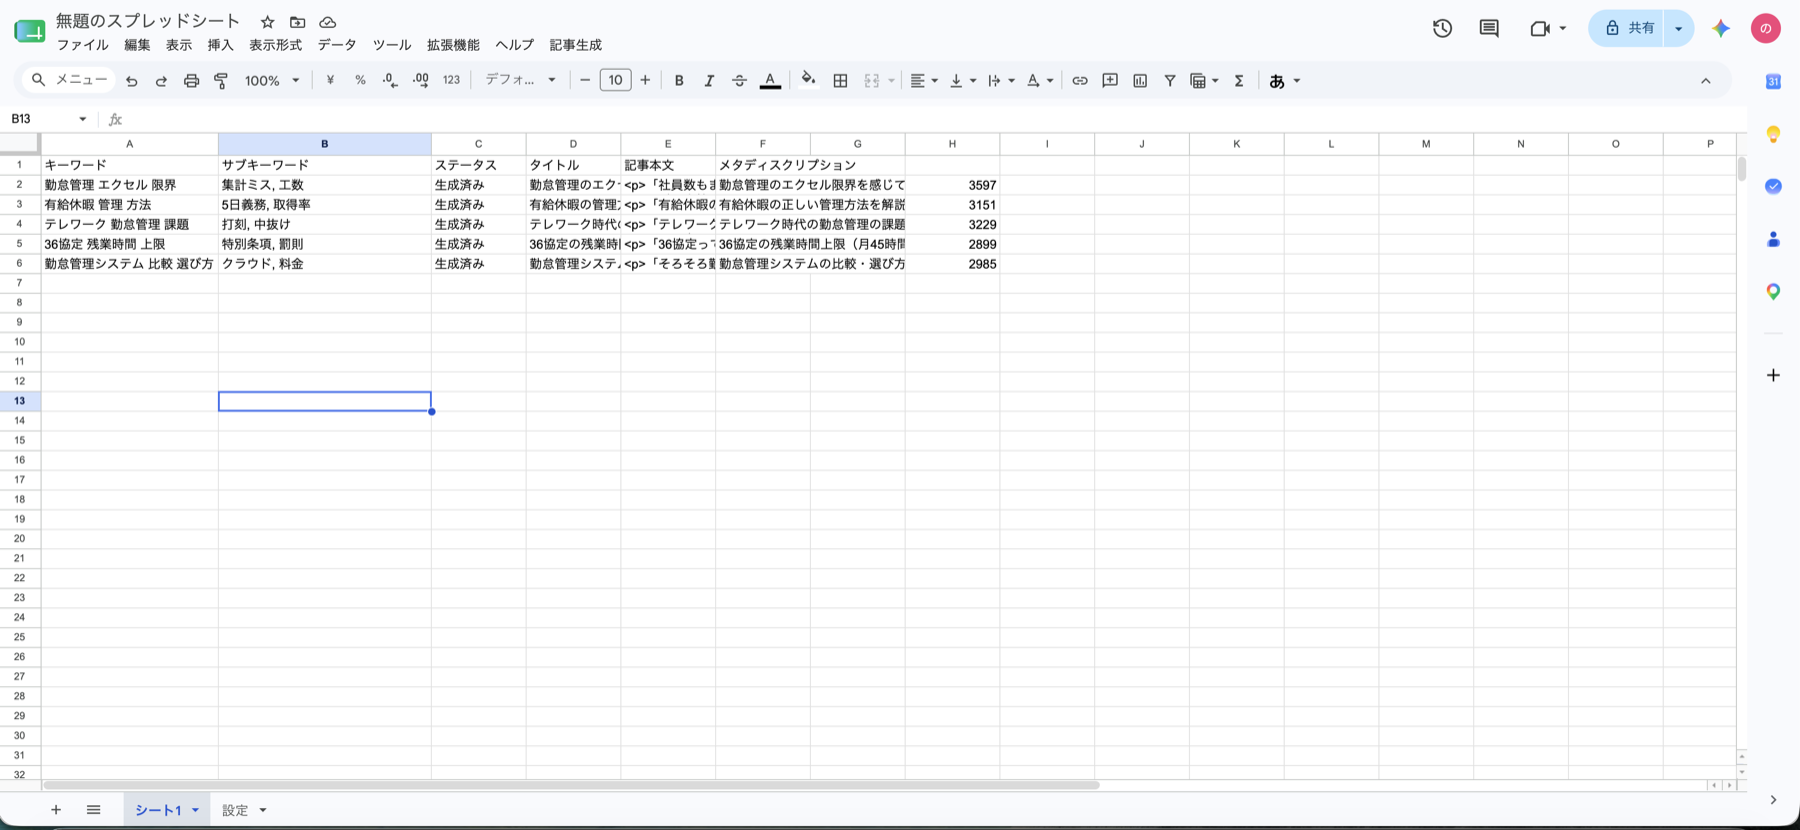
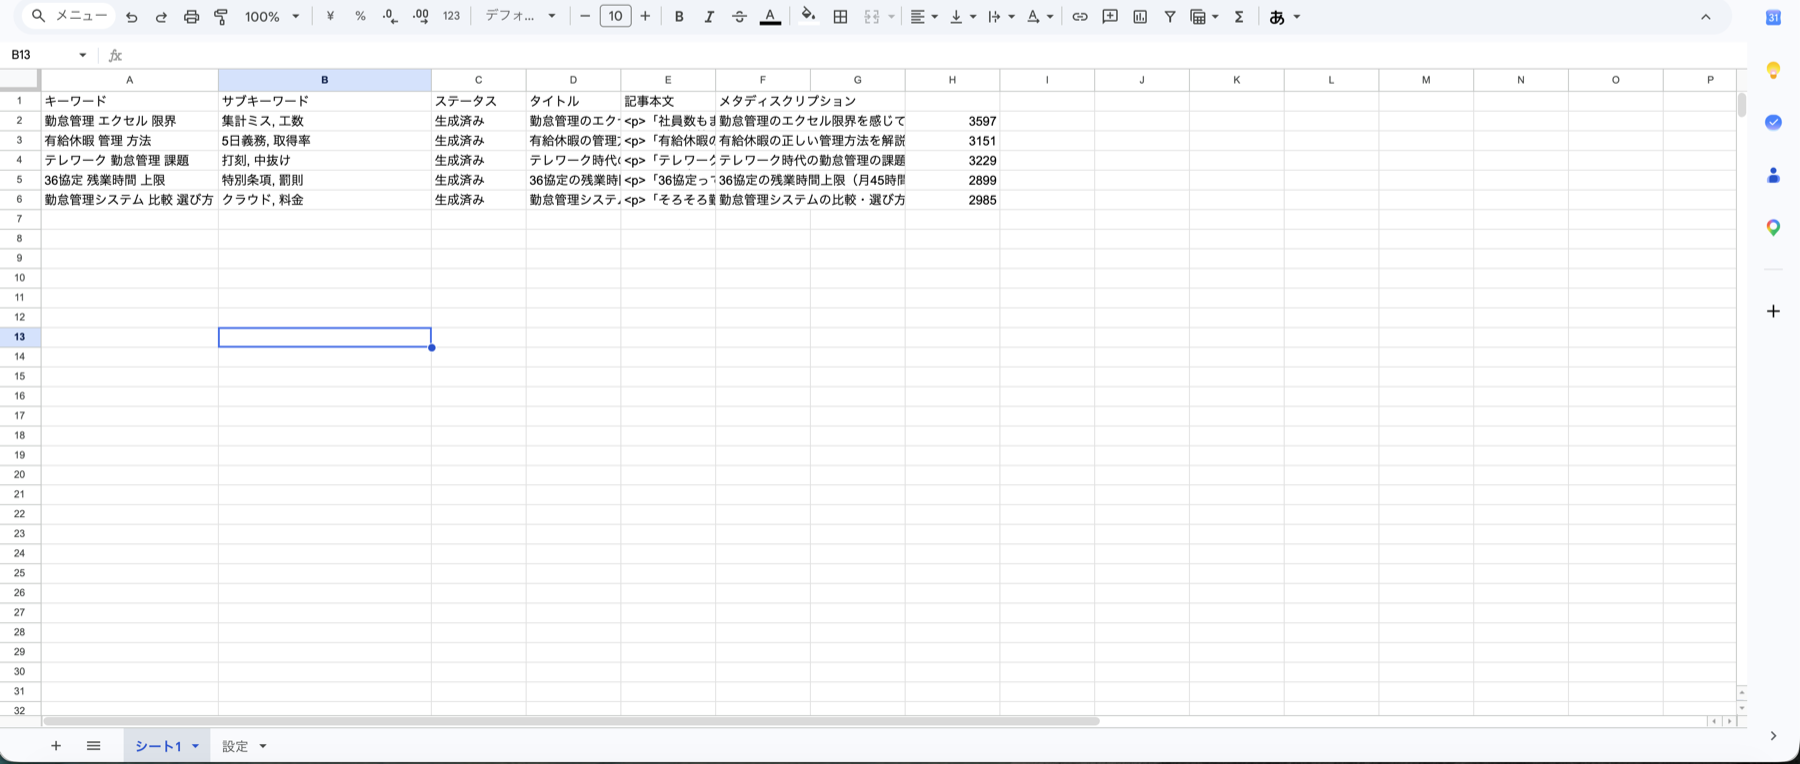
独立レビュー指摘の反映
- [BLOCKER] case6/query-logs.png: ブラウザchromeとSupabaseの組織名・
  プロジェクトref・PRODUCTION表示をクロップ除去（監査ログのテーブル表示のみ残す）
- [should-fix] 代表実績case-7サムネイルのalt文言を実画面（CSVアップロード画面）に合わせて修正
- [nit] case2スクショ3枚: Googleアカウントアバターが写る上部バーをクロップ
- [nit] CaseFlowの分岐アウトカムを最終ステップ配下のネストしたリストに変更（順序リストの意味を明確化）
- 変更した画像の width/height を lib/cases.ts に反映

Claude-Session: https://claude.ai/code/session_011vzqPPkYJLccirdxSkw4u8

diff --git a/app/components/illustrations/CaseFlow.tsx b/app/components/illustrations/CaseFlow.tsx
@@ -7,6 +7,19 @@
  */
 export type FlowStep = { label: string; sub?: string };
 
+function StepBox({ step }: { step: FlowStep }) {
+  return (
+    <div className="rounded-lg border border-[var(--color-border)] bg-[var(--color-bg)] px-3 py-2">
+      <span className="block text-sm font-medium">{step.label}</span>
+      {step.sub && (
+        <span className="block text-xs text-[var(--color-text-sub)] mt-0.5">
+          {step.sub}
+        </span>
+      )}
+    </div>
+  );
+}
+
 export default function CaseFlow({
   steps,
   branches,
@@ -23,44 +36,43 @@ export default function CaseFlow({
     <figure className={className}>
       <div className="rounded-xl border border-[var(--color-border)] bg-[var(--color-bg-card)] p-5 sm:p-6">
         <ol className="flex flex-wrap items-stretch gap-2 sm:gap-3">
-          {steps.map((step, i) => (
-            <li key={step.label} className="flex items-center gap-2 sm:gap-3">
-              <div className="rounded-lg border border-[var(--color-border)] bg-[var(--color-bg)] px-3 py-2">
-                <span className="block text-sm font-medium">{step.label}</span>
-                {step.sub && (
-                  <span className="block text-xs text-[var(--color-text-sub)] mt-0.5">
-                    {step.sub}
-                  </span>
-                )}
-              </div>
-              {(i < steps.length - 1 || branches) && (
-                <span
-                  aria-hidden="true"
-                  className="font-[family-name:var(--font-mono)] text-[var(--color-accent)]"
-                >
-                  →
-                </span>
-              )}
-            </li>
-          ))}
-
-          {branches && (
-            <li className="flex flex-col gap-2">
-              {branches.map((b) => (
-                <div
-                  key={b.label}
-                  className="rounded-lg border border-[var(--color-border)] bg-[var(--color-bg)] px-3 py-2"
-                >
-                  <span className="block text-sm font-medium">{b.label}</span>
-                  {b.sub && (
-                    <span className="block text-xs text-[var(--color-text-sub)] mt-0.5">
-                      {b.sub}
+          {steps.map((step, i) => {
+            const isLast = i === steps.length - 1;
+            return (
+              <li key={step.label} className="flex items-center gap-2 sm:gap-3">
+                {isLast && branches ? (
+                  <div className="flex items-center gap-2 sm:gap-3">
+                    <StepBox step={step} />
+                    <span
+                      aria-hidden="true"
+                      className="font-[family-name:var(--font-mono)] text-[var(--color-accent)]"
+                    >
+                      →
                     </span>
-                  )}
-                </div>
-              ))}
-            </li>
-          )}
+                    <ul className="flex flex-col gap-2">
+                      {branches.map((b) => (
+                        <li key={b.label}>
+                          <StepBox step={b} />
+                        </li>
+                      ))}
+                    </ul>
+                  </div>
+                ) : (
+                  <>
+                    <StepBox step={step} />
+                    {!isLast && (
+                      <span
+                        aria-hidden="true"
+                        className="font-[family-name:var(--font-mono)] text-[var(--color-accent)]"
+                      >
+                        →
+                      </span>
+                    )}
+                  </>
+                )}
+              </li>
+            );
+          })}
         </ol>
       </div>
       {caption && (

diff --git a/lib/cases.ts b/lib/cases.ts
@@ -185,19 +185,19 @@ export const cases: CaseStudy[] = [
         src: "/works/case2/screenshot-sheet.png",
         alt: "Google Sheetsによるキーワード・ステータス管理画面",
         width: 1800,
-        height: 830,
+        height: 764,
       },
       {
         src: "/works/case2/screenshot-article.png",
         alt: "Claude APIによる記事本文の自動生成結果",
         width: 1800,
-        height: 831,
+        height: 765,
       },
       {
         src: "/works/case2/screenshot-log.png",
         alt: "GAS実行ログ（記事生成の処理状況を確認）",
         width: 1800,
-        height: 829,
+        height: 763,
       },
     ],
     beforeAfter: {
@@ -434,7 +434,7 @@ export const cases: CaseStudy[] = [
         src: "/works/case6/query-logs.png",
         alt: "Supabaseのquery_logsテーブル（質問・回答・根拠チャンクを記録した監査ログ）",
         width: 2936,
-        height: 1624,
+        height: 1420,
       },
     ],
     metric: "部署別アクセス制御",

diff --git a/app/page.tsx b/app/page.tsx
@@ -89,7 +89,7 @@ const featuredThumb: Record<string, FeaturedThumb> = {
   "case-7-sales-dashboard": {
     type: "image",
     src: "/works/case8/01-dashboard-home.png",
-    alt: "AI売上分析ダッシュボードの画面。架空クライアントLUMINAのKPIカードを表示（架空データ）",
+    alt: "AI売上分析ダッシュボードのCSVアップロード画面（架空クライアントLUMINAを想定）",
   },
 };
 
